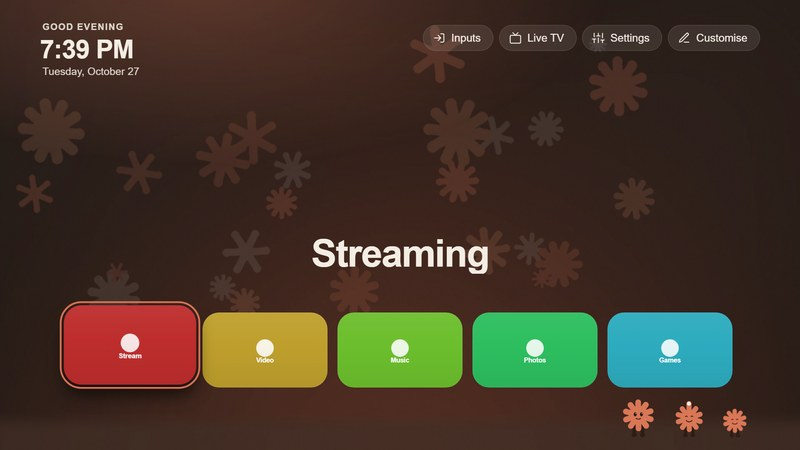
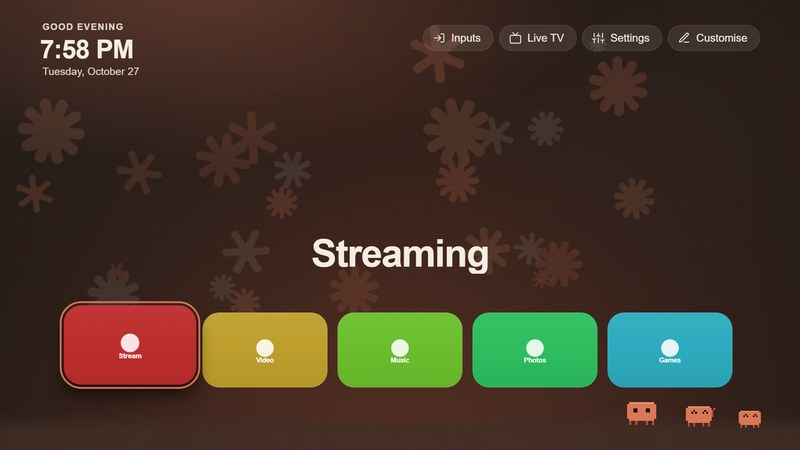
Themes: pixel Claudes, a Grid that moves, a drifting Cupertino, and Terminal
Claude's mascots are now a pixel character in the manner of the little crab in Claude Code's terminal, drawn pixel by pixel
(claude-pixel.png: standing, a four-step walk with the grey trail, then waving, happy, sleepy, surprised, dizzy, thinking), scaled
without smoothing. The Grid moves: light cycles race the floor in cyan and orange leaving fading lines of light, and the world
drifts slowly. Cupertino's night scene drifts as couch-tv's does. Terminal is new: green phosphor on black in a monospace typeface,
a greeting over the clock, a "$ " prompt before the app's name with a blinking cursor, square tiles and boxed buttons, over scanlines,
faint character columns and the curve of a tube (terminal.png, drawn for the theme).

Changed region(s): [[0.7812, 0.8711, 0.9688, 0.9644], [0.0625, 0.0933, 0.125, 0.1244]]

diff --git a/themes/README.md b/themes/README.md
@@ -129,8 +129,9 @@ A living-room lock screen in the manner of Apple's TV, after the Night look of [
 thin, translucent clock with a light rim in the sky over a night lake, the date above it, one round button top right, and a smoked-glass
 dock of square icons along the bottom with a white ring on the focused one. Down moves the dock up and shows all apps below it; the
 clock fades out meanwhile. The scene, `night.jpg`, is couch-tv's `scene-night.jpg`, made for couch-tv with an image model from text only
-(not a real place) and released for any use (its `backgrounds/CREDITS.md`). The clock's typeface is Antonio (weight 300, Latin,
-unmodified), `antonio.woff2`, under the SIL Open Font License 1.1 (`OFL.txt`); the rest of the text keeps the TV's font.
+(not a real place) and released for any use (its `backgrounds/CREDITS.md`); it drifts slowly, as theirs does (`effects.drift`). The
+clock's typeface is Antonio (weight 300, Latin, unmodified), `antonio.woff2`, under the SIL Open Font License 1.1 (`OFL.txt`); the rest
+of the text keeps the TV's font.
 
 [![Cupertino](cupertino/preview.jpg)](cupertino/preview.jpg)
 
@@ -138,11 +139,19 @@ Folder: [`cupertino/`](cupertino/)
 
 ### The Grid
 
-Inside the Grid after dark, in the spirit of the 2010 light-cycle film: a deep black world lit only by thin lines, two light-cycle
-trails (cyan and orange) cutting right angles across the floor, Recognizers hanging in the haze, a city of tall towers with lit edges
-and the portal beam far away, with light raining in the sky. Six smoked-glass tiles edged in light stand on the floor, the focused one
-with a thin light-blue ring; the buttons are outlined boxes and the glow is cyan. Down moves the row up and shows all apps below it.
-The scene was drawn for this theme.
+Inside the Grid after dark, in the spirit of the 2010 light-cycle film, and it moves: light cycles race across the floor in cyan and
+orange, near and far, each drawing a line of light behind it that fades once the rider is gone (`effects.cycles`), while the whole
+world slowly drifts (`effects.drift`): a deep black place lit only by thin lines, with trails cutting right angles across the floor,
+Recognizers in the haze, a city of tall towers with lit edges, the portal beam far away and light raining in the sky. Six smoked-glass
+tiles edged in light stand on the floor, the focused one with a thin light-blue ring; the buttons are outlined boxes and the glow is
+cyan. Down moves the row up and shows all apps below it. The scene was drawn for this theme.
+
+### Terminal
+
+A terminal: green phosphor text on black in a monospace typeface, a greeting in capitals over the clock like a login message, a `$`
+prompt before the focused app's name with a blinking block cursor after it (`shelf.prefix`, `shelf.cursor`), square tiles with a thin
+outline and a green selection box, buttons drawn as boxes, menus with square rows, a green glow and, behind it all, scanlines, faint
+character columns and the soft curve of a tube, drawn for this theme (`terminal.png`).
 
 [![The Grid](the-grid/preview.jpg)](the-grid/preview.jpg)
 
@@ -151,11 +160,12 @@ Folder: [`the-grid/`](the-grid/)
 ### Claude
 
 A warm, playful home: cream text and a terracotta accent on dark cocoa, a greeting over the clock, the focused app's name big in the
-middle of the screen, a round dock low on the screen and the app grid as an overlay on Down. Three little Claudes, the theme's mascots
-(`mascot.*` in `theme.json`), walk the floor at the bottom, each a little smaller than the last: they rest, nap (with z's), wave, think
-(a slow sway and a breath, like the thinking spinner), hop, spin until dizzy, dash, dance, wiggle, peek in from the edges and hop
-whenever the focus moves. The wallpaper and the strip (`claude-walk.png`: standing, a five-frame walk, then waving, happy, sleepy,
-surprised, dizzy and thinking) were drawn for this theme.
+middle of the screen, a round dock low on the screen and the app grid as an overlay on Down. Three little pixel Claudes, the theme's
+mascots (`mascot.*` in `theme.json`), walk the floor at the bottom, each a little smaller than the last: they rest, nap (with z's),
+wave, think (a slow sway and a breath, like the thinking spinner), hop, spin until dizzy, dash, dance, wiggle, peek in from the edges
+and hop whenever the focus moves. The character is an original pixel figure in the manner of the little crab in Claude Code's terminal,
+drawn pixel by pixel for this theme (`claude-pixel.png`, 24 x 24 pixels a frame, scaled without smoothing: standing, a four-step walk,
+then waving, happy, sleepy, surprised, dizzy and thinking); the wallpaper was drawn for it too.
 
 [![Claude](claude/preview.jpg)](claude/preview.jpg)
 
